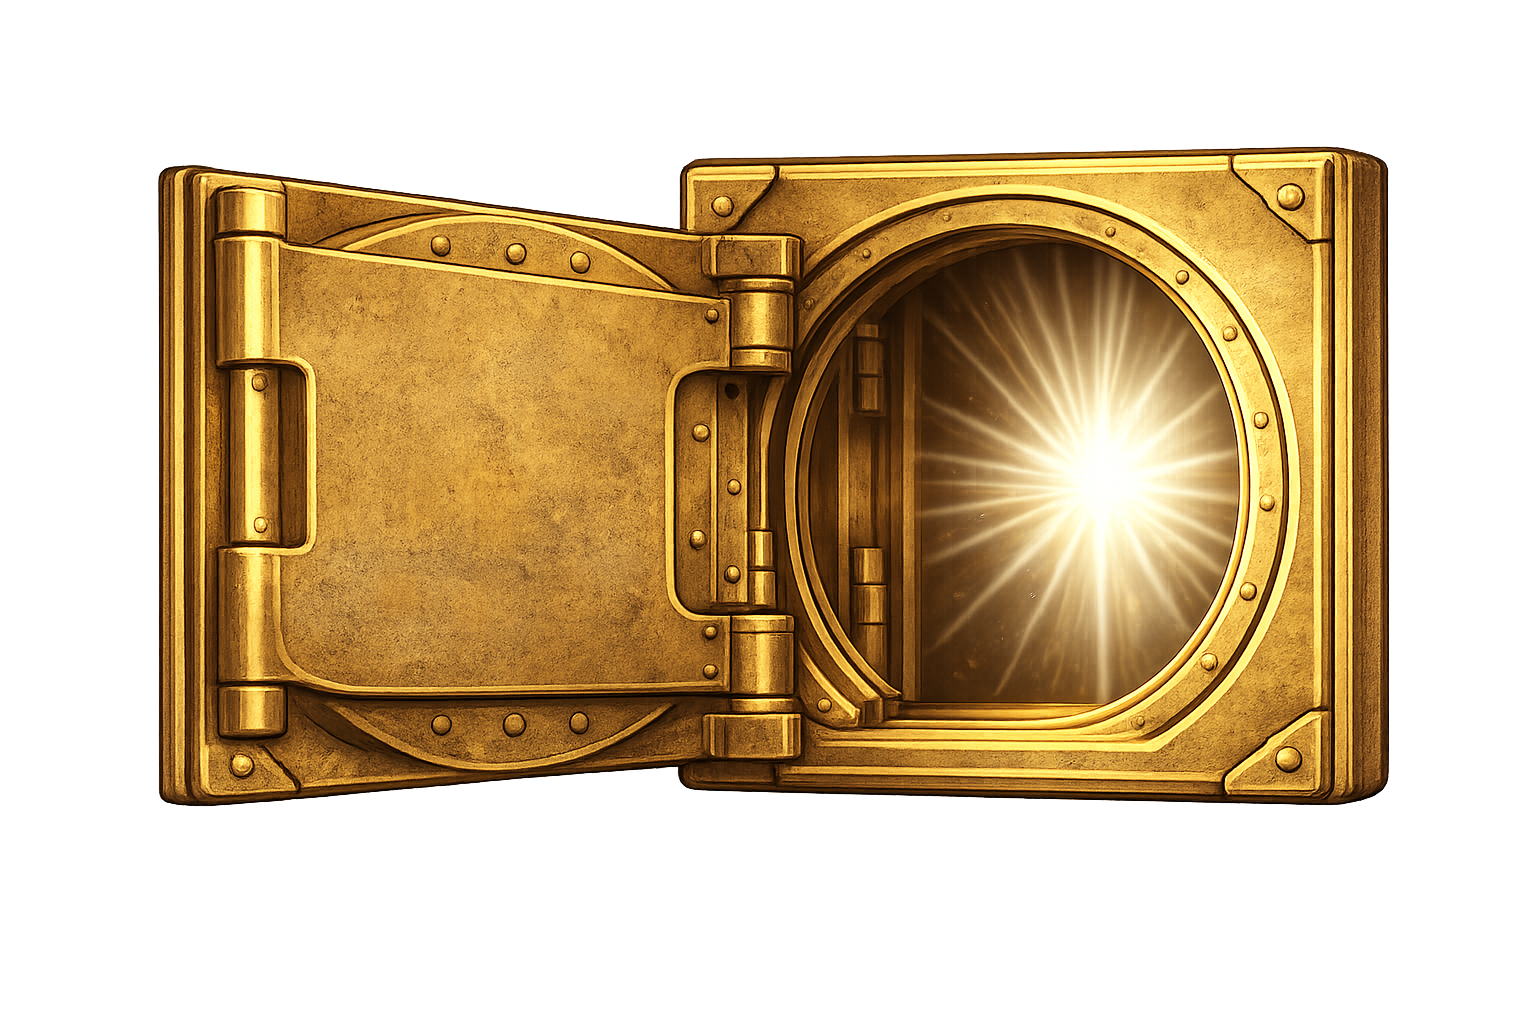
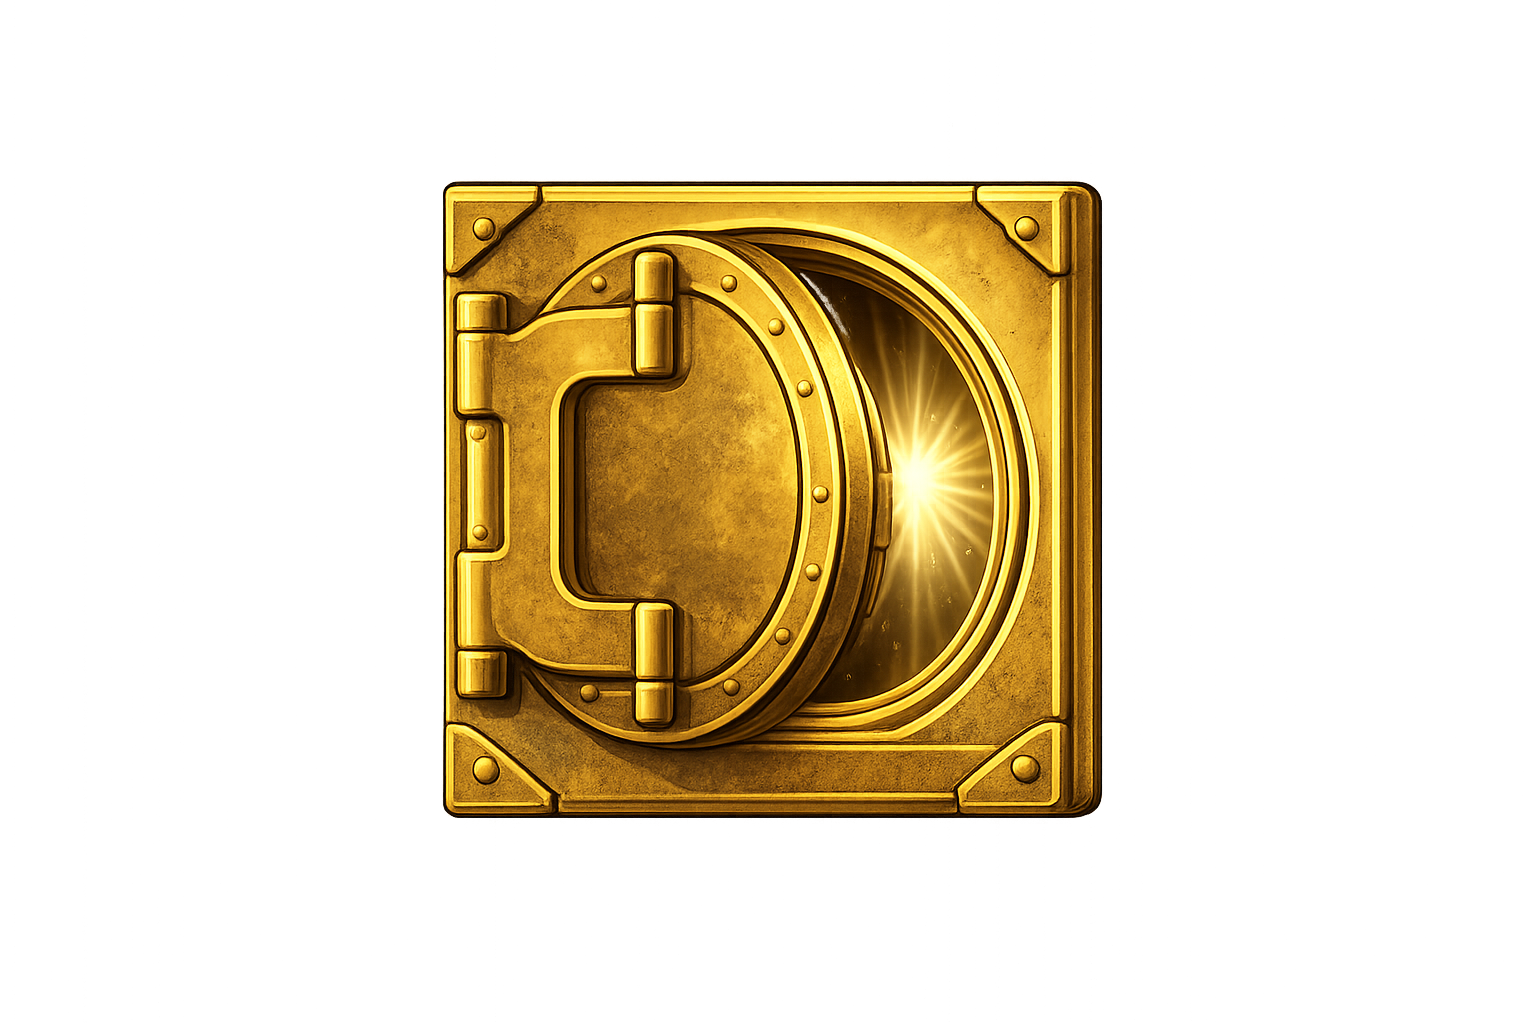
add vault improvements

diff --git a/src/components/MapProp.jsx b/src/components/MapProp.jsx
@@ -258,6 +258,19 @@ export default function MapProp({ prop }) {
     ? propImageMap[prop.swapImages.open]
     : null;
 
+  const hasSwapImages = Boolean(prop.swapImages && swapClosedSrc && swapOpenSrc);
+
+  const openLayerStyle = hasSwapImages
+    ? {
+        inset: "0 auto auto auto",
+        width: `${prop.openWidthPercent ?? 100}%`,
+        height: "100%",
+        objectFit: "contain",
+        right: `${prop.openRightOffsetPercent ? `-${prop.openRightOffsetPercent}%` : "0%"}`,
+        top: `${prop.openTopOffsetPx ?? 0}px`,
+      }
+    : undefined;
+
   return (
     <div
       className={`map-prop-anchor ${prop.shine ? "has-shine" : ""} ${prop.aura ? "has-aura" : ""} ${prop.beam ? "has-beam" : ""} ${prop.type === "sunImage" ? "map-prop-anchor-sun" : ""}`}
@@ -295,12 +308,38 @@ export default function MapProp({ prop }) {
       {prop.shine ? <span className="prop-shine-rays" /> : null}
       {prop.aura ? <span className="prop-aura" /> : null}
 
-      <img
-        src={prop.swapImages ? (prop.isOpen ? swapOpenSrc : swapClosedSrc) : imageSrc}
-        alt=""
-        className={`map-prop ${prop.animate || ""} ${prop.type === "sunImage" ? "map-prop-sun" : ""}`}
-        draggable="false"
-      />
+      {hasSwapImages ? (
+        <span className="map-prop-swap-shell">
+          <img
+            src={swapClosedSrc}
+            alt=""
+            className={`map-prop map-prop-swap-sizer ${prop.type === "sunImage" ? "map-prop-sun" : ""}`}
+            draggable="false"
+          />
+
+          <img
+            src={swapClosedSrc}
+            alt=""
+            className={`map-prop map-prop-swap-layer ${prop.isOpen ? "is-hidden" : "is-visible"} ${prop.animate || ""} ${prop.type === "sunImage" ? "map-prop-sun" : ""}`}
+            draggable="false"
+          />
+
+          <img
+            src={swapOpenSrc}
+            alt=""
+            className={`map-prop map-prop-swap-layer ${prop.isOpen ? "is-visible" : "is-hidden"} ${prop.animate || ""} ${prop.type === "sunImage" ? "map-prop-sun" : ""}`}
+            draggable="false"
+            style={openLayerStyle}
+          />
+        </span>
+      ) : (
+        <img
+          src={imageSrc}
+          alt=""
+          className={`map-prop ${prop.animate || ""} ${prop.type === "sunImage" ? "map-prop-sun" : ""}`}
+          draggable="false"
+        />
+      )}
     </div>
   );
 }

diff --git a/src/data/land1.js b/src/data/land1.js
@@ -49,42 +49,6 @@ export const land1Data = {
       aura: true,
     },
 
-    // {
-    //   id: "chest-left",
-    //   type: "chestOpen",
-    //   x: 16.5,
-    //   y: 69.5,
-    //   width: 100,
-    //   rotate: -4,
-    //   z: 2,
-    //   animate: "floatSlow",
-    //   delay: "0.1s",
-    //   shine: true,
-    //   aura: true,
-    // },
-
-    // CODE BLOCK FOR CENTRAL CHEST BY THE FOUNTAIN SIDE
-
-    // {
-    //   id: "chest-near-5",
-    //   type: "chestClosed",
-    //   x: 67.5,
-    //   y: 72.8,
-    //   width: 100,
-    //   rotate: 1,
-    //   z: 2,
-    //   animate: "floatSlow",
-    //   delay: "0.1s",
-    //   shine: true,
-    //   aura: true,
-    //   beam: true,
-    //   beamWidth: "200%",
-    //   beamHeight: "110%",
-    //   beamBottom: "34%",
-    //   beamOpacity: 1.9,
-    //   beamCoreOpacity: 1.1,
-    // },
-
     {
       id: "bottom-treasure-custom",
       type: "bottomTreasureCustom",
@@ -185,6 +149,9 @@ export const land1Data = {
       width: 350,
       rotate: 0,
       z: 4,
+      openWidthPercent:100,
+      openRightOffsetPercent: 0,
+      openTopOffsetPx: 0,
     },
 
     {
